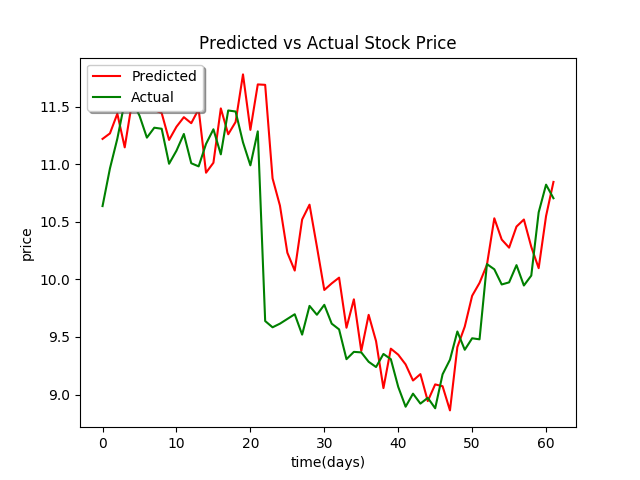
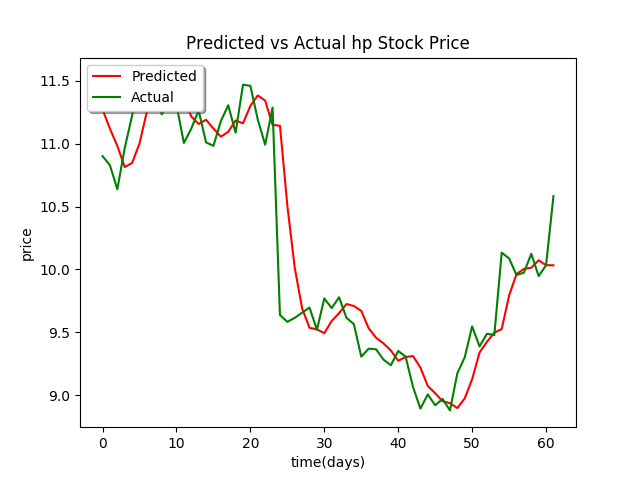
added regularization and normalization to weights and inputs.graphs with gtrends and close price as inputs

diff --git a/code/tensorFlow/rnn_model/data_model.py b/code/tensorFlow/rnn_model/data_model.py
@@ -14,7 +14,7 @@ class StockDataSet(object):
                  output_size=1,
                  num_steps=30,
                  test_ratio=0.1,
-                 normalized=False,
+                 normalized=True,
                  close_price_only=False):
         self.stock_sym = stock_sym
         self.input_size = input_size
@@ -23,50 +23,81 @@ class StockDataSet(object):
         self.test_ratio = test_ratio
         self.normalized = normalized
 
+        np.set_printoptions(threshold=np.nan)
+        np.set_printoptions(precision=2)
+        
         # Read csv file
        # raw_df = pd.read_csv(os.path.join("../../../data/datafiles/numerical-initial", "%s.csv" % stock_sym))
-        raw_df = pd.read_csv("../../../data/data-cleanup/combined_data_aniq.csv")        
+        raw_df = pd.read_csv("../../../data/data-cleanup/combined_data_aniq_3.csv")        
 
         #self.raw_seq_X = [price for tup in raw_df[['Open', 'High', 'Low', 'Close']].values for price in tup]
         # self.raw_seq_y = [price for tup in raw_df[['Close']].values for price in tup]
         # self.raw_seq_X = [price for tup in raw_df[['hp_gtrends', 'hp_Volume', 'hp_Last Price']].values for price in tup]
         gtrends = str(stock_sym) + "_gtrends"
         last_price = str(stock_sym) + "_Last Price"
-        self.raw_seq_X = [price for tup in raw_df[[last_price]].values for price in tup]            
+        
+
         self.raw_seq_y = [price for tup in raw_df[[last_price]].values for price in tup]
-
-        for i in range (0,len(self.raw_seq_X)):
-            self.raw_seq_X[i] =self.raw_seq_X[i]/100
-            self.raw_seq_y[i] =self.raw_seq_y[i]/100                
-
-        self.raw_seq_X = np.array(self.raw_seq_X)
         self.raw_seq_y = np.array(self.raw_seq_y)        
-        self.train_X, self.train_y, self.test_X, self.test_y = self._prepare_data(self.raw_seq_X,self.raw_seq_y)
+        if self.normalized:
+            self.raw_seq_gtrends = [price for tup in raw_df[[gtrends]].values for price in tup]
+            self.raw_seq_last_price = [price for tup in raw_df[[last_price]].values for price in tup]
 
+            self.raw_seq_gtrends = np.array(self.raw_seq_gtrends)
+            self.raw_seq_last_price = np.array(self.raw_seq_last_price)
+
+            self.mean_price = np.mean(self.raw_seq_last_price)
+            self.std_price = np.std(self.raw_seq_last_price)
+
+            for i in range (0,len(self.raw_seq_last_price)):
+                self.raw_seq_last_price[i] = (self.raw_seq_last_price[i] - self.mean_price)/self.std_price
+                self.raw_seq_y[i] = (self.raw_seq_y[i] - self.mean_price)/self.std_price
+
+            mean_gtrends = np.mean(self.raw_seq_gtrends)
+            std_gtrends = np.std(self.raw_seq_gtrends)
+            for i in range (0,len(self.raw_seq_gtrends)):
+                self.raw_seq_gtrends[i] = (self.raw_seq_gtrends[i] - mean_gtrends)/std_gtrends
+
+            self.train_X, self.train_y, self.test_X, self.test_y = self._prepare_data(self.raw_seq_gtrends,self.raw_seq_last_price,self.raw_seq_y)
+            
+        else:
+            self.raw_seq_X = [price for tup in raw_df[[gtrends,last_price]].values for price in tup]
+            self.raw_seq_X = np.array(self.raw_seq_X)
+            #print self.raw_seq_X
+            
+            self.train_X, self.train_y, self.test_X, self.test_y = self._prepare_data(1,self.raw_seq_X,self.raw_seq_y)
+        
         print "input length:", len(self.train_X)
         print "output length:", len(self.train_y)
         template = ('\Input is "{}", output "{}"')    
 
- #       for pred_dict, expect in zip(self.train_X, self.train_y):
- #           print(template.format(pred_dict,expect))
+        for pred_dict, expect in zip(self.train_X, self.train_y):
+            print(template.format(pred_dict,expect))
 
 
     def info(self):
         return "StockDataSet [%s] train: %d test: %d" % (
             self.stock_sym, len(self.train_X), len(self.test_y))
 
-    def _prepare_data(self, seq_X, seq_y):
-        # split into items of input_size
-        seq_X = [np.array(seq_X[i * self.input_size: (i + 1) * self.input_size])
-               for i in range(len(seq_X) // self.input_size)]
+    def _prepare_data(self, seq_gtrends, seq_last_price, seq_y):
 
+        #concatenate features
+        if self.normalized:
+            #seq_X_comb = np.concatenate([seq_gtrends, seq_last_price])
+            seq_X = np.column_stack([seq_gtrends, seq_last_price])            
+            #print seq_X
+            #seq_X_comb = seq_last_price            
+        else:
+            seq_X_comb = seq_last_price
+
+        # split into items of input_size
+       # seq_X = [np.array(seq_X_comb[i * self.input_size: (i + 1) * self.input_size])
+       #        for i in range(len(seq_X_comb) // self.input_size)]
+
+        #print seq_X
         # fixing the input size for output label as 1
         seq_y = [np.array(seq_y[i * self.output_size: (i + 1) * self.output_size])
                for i in range(len(seq_y) // self.output_size)]
-        
-        if self.normalized:
-            seq = [seq[0] / seq[0][0] - 1.0] + [
-                curr / seq[i][-1] - 1.0 for i, curr in enumerate(seq[1:])]
 
         # split into groups of num_steps
         X = np.array([seq_X[i: i + self.num_steps] for i in range(len(seq_X) - self.num_steps)])

diff --git a/code/tensorFlow/rnn_model/model_rnn.py b/code/tensorFlow/rnn_model/model_rnn.py
@@ -20,6 +20,7 @@ class LstmRNN(object):
                  num_steps=30,
                  input_size=1,
                  output_size=1,
+                 regularize=False,
                  logs_dir="logs",
                  plots_dir="images"):
         """
@@ -42,6 +43,7 @@ class LstmRNN(object):
         self.num_steps = num_steps
         self.input_size = input_size
         self.output_size = output_size
+        self.regularize = regularize
 
 
         self.logs_dir = logs_dir
@@ -112,14 +114,23 @@ class LstmRNN(object):
         self.pred_summ = tf.summary.histogram("pred", self.pred)
 
         # self.loss = -tf.reduce_sum(targets * tf.log(tf.clip_by_value(prediction, 1e-10, 1.0)))
-        # Cost Function
+        # Original Cost/Loss Function
         self.loss = tf.reduce_mean(tf.square(self.pred - self.targets), name="loss_mse_train")
+
+        #if self.regularize:  
+            # Loss function using L2 Regularization
+        #    print "will be regularizing"
+        self.regularizer = tf.nn.l2_loss(ws)
+           # self.loss = tf.reduce_mean(self.loss + config.init_learning_rate * self.regularizer)
+        self.loss = tf.reduce_mean(self.loss + self.learning_rate * self.regularizer)            
+
         # Optimizer
         self.optim = tf.train.RMSPropOptimizer(self.learning_rate).minimize(self.loss, name="rmsprop_optim")
 
         # Separated from train loss.
         self.loss_test = tf.reduce_mean(tf.square(self.pred - self.targets), name="loss_mse_test")
 
+        #Histogram Updates
         self.loss_sum = tf.summary.scalar("loss_mse_train", self.loss)
         self.loss_test_sum = tf.summary.scalar("loss_mse_test", self.loss_test)
         self.learning_rate_sum = tf.summary.scalar("learning_rate", self.learning_rate)
@@ -227,6 +238,12 @@ class LstmRNN(object):
         
         final_pred, final_loss = self.sess.run([self.pred, self.loss], test_data_feed)
 
+        #Denormalize
+        if config.normalized:
+            for i in range (0,len(final_pred)):
+                final_pred[i] = (final_pred[i]*dataset_list[0].std_price) + dataset_list[0].mean_price
+                merged_test_y[i] = (merged_test_y[i]*dataset_list[0].std_price) + dataset_list[0].mean_price
+            
         #Print predicted vs expected
         template = ('\nPrediction is "{}", expected "{}"')    
         for pred, expect in zip(final_pred, merged_test_y):

diff --git a/code/tensorFlow/rnn_model/main.py b/code/tensorFlow/rnn_model/main.py
@@ -24,7 +24,8 @@ flags.DEFINE_integer("max_epoch", 50, "Total training epoches. [50]")
 flags.DEFINE_string("stock_symbol", None, "Target stock symbol [None]")
 flags.DEFINE_integer("sample_size", 4, "Number of stocks to plot during training. [4]")
 flags.DEFINE_boolean("train", False, "True for training, False for testing [False]")
-
+flags.DEFINE_boolean("regularize", True, "Enable data regularization, False by default [False]")
+flags.DEFINE_boolean("normalized", True, "Enable data regularization, False by default [False]")
 FLAGS = flags.FLAGS
 
 pp = pprint.PrettyPrinter()
@@ -38,14 +39,15 @@ def show_all_variables():
     slim.model_analyzer.analyze_vars(model_vars, print_info=True)
 
 
-def load_sp500(input_size, num_steps, k=None, target_symbol=None, test_ratio=0.05):
+def load_sp500(input_size, num_steps, k=None, target_symbol=None, test_ratio=0.05, normalized = True):
     if target_symbol is not None:
         return [
             StockDataSet(
                 target_symbol,
                 input_size=input_size,
                 num_steps=num_steps,
-                test_ratio=test_ratio)
+                test_ratio=test_ratio,
+                normalized= normalized)
         ]
 
     # Load metadata of s & p 500 stocks
@@ -88,6 +90,7 @@ def main(_):
             num_steps=FLAGS.num_steps,
             input_size=FLAGS.input_size,
             output_size=FLAGS.output_size,
+            regularize = FLAGS.regularize,
         )
 
         show_all_variables()
@@ -97,11 +100,10 @@ def main(_):
             FLAGS.num_steps,
             target_symbol=FLAGS.stock_symbol,
             test_ratio=FLAGS.test_ratio,
+            normalized=FLAGS.normalized
         )
 
-       # gtrends = str(FLAGS.stock_symbol) +"_gtrends"
-       # print "stock symbol:",gtrends
-
+        
         if FLAGS.train:
             rnn_model.train(stock_data_list, FLAGS)
         else:
